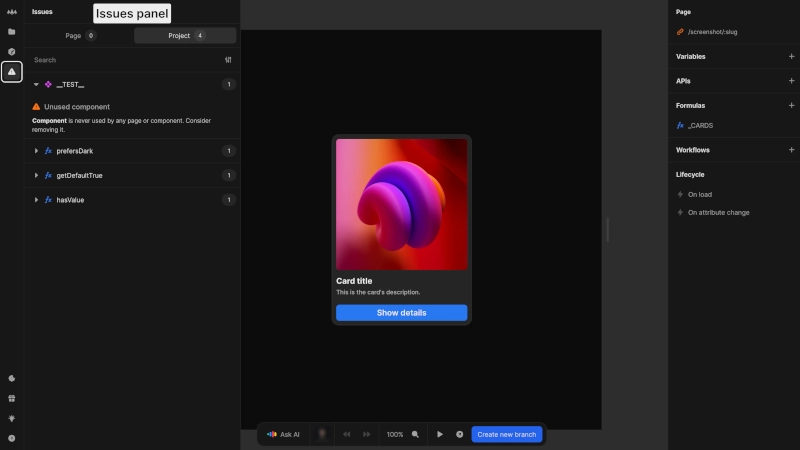
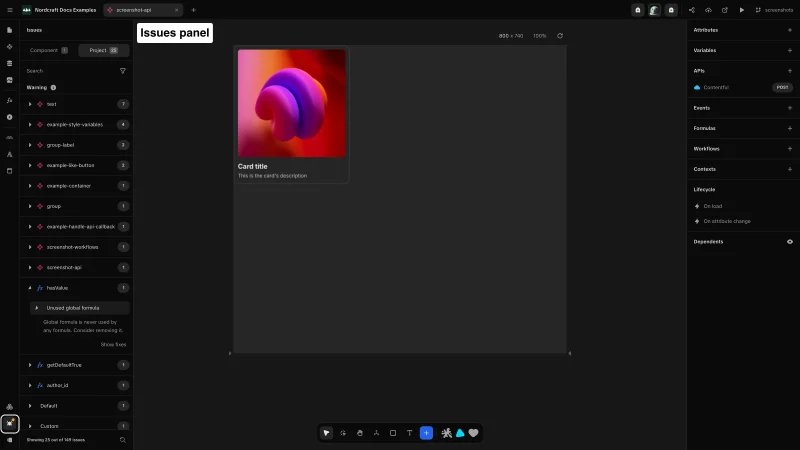
issues-panel

diff --git a/docs/the-editor/issues-panel/issues-panel.screenshot.ts b/docs/the-editor/issues-panel/issues-panel.screenshot.ts
@@ -1,0 +1,35 @@
+import { defineScreenshot } from '@/scripts/capture-screenshots'
+import type { Page } from 'playwright'
+
+// Placeholder script for issues-panel.webp
+export default defineScreenshot({
+  path: '/projects/docs_examples/branches/screenshots/components/screenshot-api?mode=design&canvas-tool=select&canvas-width=800&rightpanel=style&leftpanel=issues',
+  setup: async (page: Page) => {
+    await page.waitForTimeout(500)
+    await page
+      .getByRole('tab', { name: 'Project Checking project for issues' })
+      .click()
+    await page.getByRole('button', { name: 'hasValue' }).click()
+    await page
+      .locator('div')
+      .filter({ hasText: /^Unused global formula$/ })
+      .nth(2)
+      .click()
+  },
+  annotations: [
+    {
+      type: 'text',
+      x: 137,
+      y: 23,
+      text: 'Issues panel'
+    },
+    {
+      type: 'box',
+      x: 1,
+      y: 415,
+      width: 18,
+      height: 18,
+      rx: 4
+    }
+  ],
+})

diff --git a/docs/the-editor/issues-panel/index.md b/docs/the-editor/issues-panel/index.md
@@ -7,7 +7,7 @@ description: Nordcraft’s issues panel helps you detect and fix issues quickly,
 
 The issues panel provides an overview of all issues found in your project, helping you identify and resolve any problems which may cause accessibility, performance or maintainability issues.
 
-![The issues panel is expanded, showing a warning for an unused component which says component is never used by any page or component, consider removing it.|16/9](issues-panel.webp 'Issues panel'){https://editor.nordcraft.com/projects/docs_examples/branches/main/components/screenshot-page?rightpanel=style&canvas-width=800&canvas-height=800&leftpanel=Problems}
+![The issues panel is expanded, showing a warning for an unused global formula which says the global formula. is never used by any formula, consider removing it.|16/9](issues-panel.webp 'Issues panel'){https://editor.nordcraft.com/projects/docs_examples/branches/main/components/screenshot-page?rightpanel=style&canvas-width=800&canvas-height=800&leftpanel=Problems}
 
 ## Accessing the issues panel
 
